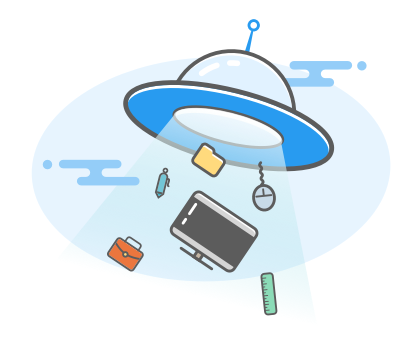
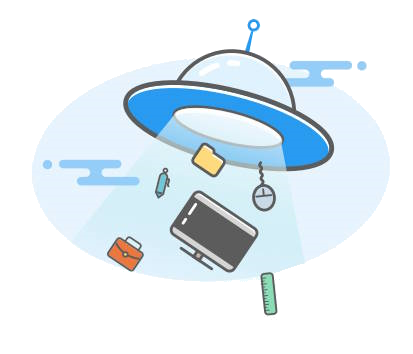
Style Update

diff --git a/index.html b/index.html
@@ -4,19 +4,20 @@
 <head>
     <meta charset="UTF-8">
     <meta name="viewport" content="width=device-width, initial-scale=1.0">
+    <meta name="description" content="404 page for the website">
     <title>Antius-Dragon.2</title>
 </head>
 
 <body style="background-color: white;">
     <!-- antraste -->
-    <main style="background-color: white; width: 60%; margin-left: 20%; margin-right: 20%; margin-top: 10%; display: inline-block;"> 
-        <div style="background-color: white; width: 35%; float: left;">
-            <h1 style="color: rgb(40, 153, 237); font-size: 100px; font-family: Verdana, Geneva, Tahoma, sans-serif;">404</h1>
-            <p style="font-size: 50px; text-transform: uppercase; font-weight: bold ;font-family: 'Franklin Gothic Medium', Verdana, Geneva, Tahoma, sans-serif;">Page not found</p>
+    <main style="width: 60%; margin-left: 20%; margin-right: 20%; margin-top: 10%; display: inline-block;"> 
+        <div style="width: 35%; float: left; margin-top: 100px;">
+            <h1 style="margin: 0; color: rgb(40, 153, 237); font-size: 100px; font-family: Verdana, Geneva, Tahoma, sans-serif;">404</h1>
+            <p style="margin-top: 0; font-size: 50px; text-transform: uppercase; font-weight: bold ;font-family: 'Franklin Gothic Medium', Verdana, Geneva, Tahoma, sans-serif;">Page not found</p>
             <a style="display: inline-block;text-decoration: none;border-radius: 50px; padding: 10px;padding-left: 30px; padding-right: 30px; font-size: 20px; border: 4px solid rgb(40, 153, 237);" href="https://github.com/AntiusDragon/html_2_ufo">Go to home</a>
         </div>
         <div>
-            <img style="background-color: white; width: 60%; float: right; " src="./img/ufo.jpg" alt="Ateiviu lekste kuri vagia musu daiktus">
+            <img style="width: 60%; float: right; " src="./img/ufo.webp" alt="Ateiviu lekste kuri vagia musu daiktus">
         </div>
     </main>
 </body>
